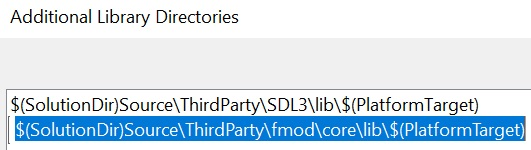
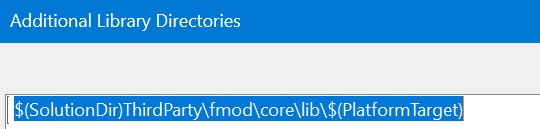
update fmod instructions

diff --git a/_posts/GameDev-CPP/2024-07-05-gamedev-cpp-fmod.md b/_posts/GameDev-CPP/2024-07-05-gamedev-cpp-fmod.md
@@ -17,35 +17,35 @@ _This guide will provide step-by-step instructions on how to add the FMOD librar
 
 ### Download FMOD ###
 + Go to the **FMOD** website [https://www.fmod.com/](https://www.fmod.com/)
-  + Go to the **Sign In** and sign up for an account if you don't have one
-  + Go to the **Download**
+  + Go to the **Sign In** and sign up for an account if you don't have one.
+  + Go to the **Download**.
 <div align="left">
 <img src="fmod-sign-in.jpg" alt="Sign-in" width="65%"/>
 </div>
 
-+ Download the **FMOD Engine** for Windows
++ Download the **FMOD Engine** for Windows.
 <div align="left">
 <img src="fmod-download.jpg" alt="Download" width="75%"/>
 </div>
 
-+ Install the downloaded **FMOD Engine** file (accepts all defaults)
++ Install the downloaded **FMOD Engine** file (accepts all defaults).
 <div align="left">
 <img src="fmod-installer.jpg" alt="Installer" width="75%"/>
 </div>
 
-+ Create a folder in the **Source** directory called "ThirdParty", if one doesn't exist
-  + **ThirdParty** will contain libraries from external developers to be used in the project
-+ Create a folder in the **ThirdParty** folder called "fmod"
++ Create a folder in the **Source** directory called "ThirdParty", if one doesn't exist.
+  + **ThirdParty** will contain libraries from external developers to be used in the project.
++ Create a folder in the **ThirdParty** folder called "fmod".
 <div align="left">
 <img src="fmod-thirdparty.jpg" alt="ThirdParty" width="62%"/>
 </div>
 
-+ Navigate to where **FMOD** was installed on your computer
++ Navigate to where **FMOD** was installed on your computer.
 + The default location (copy into **Windows Explorer**):
 ```
-C:\Program Files (x86)\FMOD SoundSystem\FMOD Studio API Windows
+C:\Program Files (x86)\FMOD SoundSystem\FMOD Studio API Windows\api
 ```
-+ In the **api** folder, copy the **core** folder into the **ThirdParty\fmod** folder
++ Copy the **core** folder into the **ThirdParty\fmod** folder
 <div align="left">
 <img src="fmod-api-core.jpg" alt="Api Core" width="65%"/>
 <img src="fmod-thirdparty-core.jpg" alt="Api ThirdParty" width="65%"/>
@@ -62,7 +62,7 @@ C:\Program Files (x86)\FMOD SoundSystem\FMOD Studio API Windows
 #### Add FMOD Include Directories ####
 + Add the directory of the FMOD include folder to the **Additional Include Directories**.
   + **Additional Include Directories** is located in **C/C++>General**.
-  + Add ```$(SolutionDir)Source\ThirdParty\fmod\core\inc```
+  + Add ```$(SolutionDir)ThirdParty\fmod\core\inc```
 
 ```
 $(SolutionDir)ThirdParty\fmod\core\inc
@@ -71,11 +71,11 @@ $(SolutionDir)ThirdParty\fmod\core\inc
 <img src="fmod-include.jpg" alt="Include" width="75%"/>
 </div>
  
->This needs to be done in all **Projects** in the **Solution**.
+>This needs to be done in both **Projects** in the **Solution**.
 {: .prompt-warning }
 
 + Once the directory is added to the list of included directories, the **FMOD** header can be add to the files.
-  + Add the following to a file, for example Main.cpp.
+  + Add the following to a file, place it where the **main.cpp** is located.
 ```
 #include <fmod.hpp>
 ```
@@ -96,14 +96,14 @@ $(SolutionDir)ThirdParty\fmod\core\inc
   + Add ```$(SolutionDir)ThirdParty\fmod\core\lib\$(PlatformTarget)```
 
 ```
-$(SolutionDir)Source\ThirdParty\fmod\core\lib\$(PlatformTarget)
+$(SolutionDir)ThirdParty\fmod\core\lib\$(PlatformTarget)
 ```
 <div align="left">
 <img src="fmod-library.jpg" alt="Library" width="70%"/>
 </div>
  <br> 
 
-+ Add the **FMOD** .lib files that the project needs to function
++ Add the **FMOD** .lib files that the project needs to function.
   + **Additional Dependencies** is located in **Librarian>General**
   + Add ```fmod_vc.lib```
 
@@ -117,9 +117,9 @@ fmod_vc.lib
 > If the **FMOD** library was properly added, building the project (CTRL+B) will result in no errors.
 {: .prompt-info }
 
-#### Add SDL Dynamic Link Library (dll) ####
-+ Create a folder in the **Solution** directory called "Build"
-  + This step might have already been done previously
+#### Add FMOD Dynamic Link Library (dll) ####
++ Create a folder in the **Solution** directory called "Build".
+  + The Build folder may already exist.
   + The **Build** folder will contain the **FMOD** dll (dynamic link library) files.
 <div align="left">
 <img src="fmod-build.jpg" alt="Build" width="70%"/>